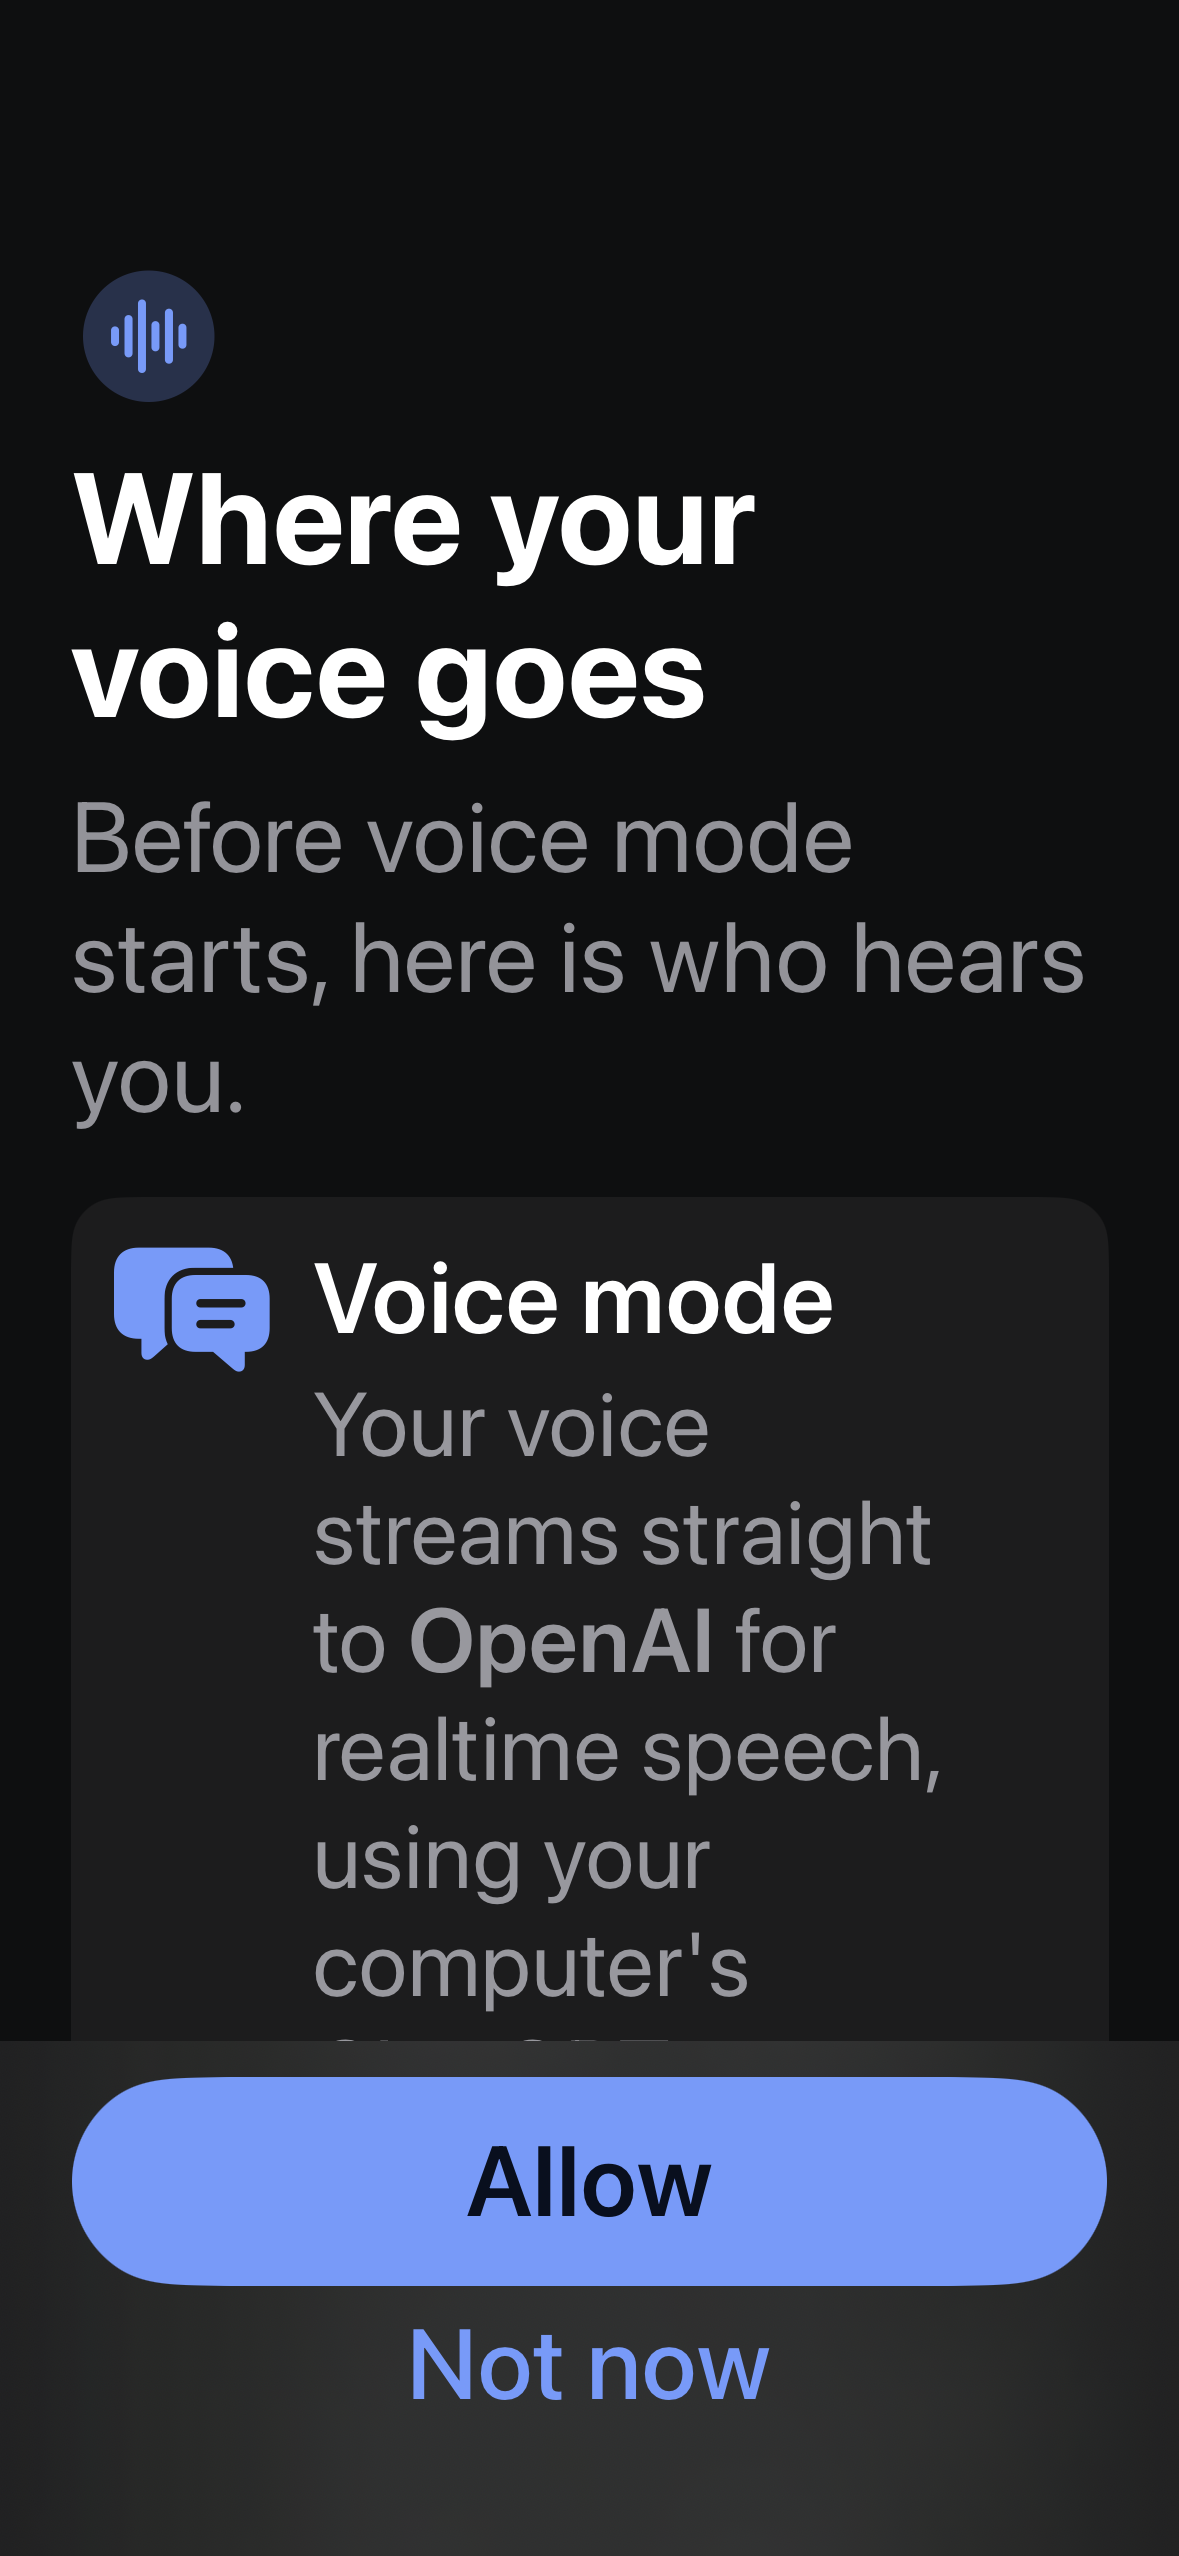
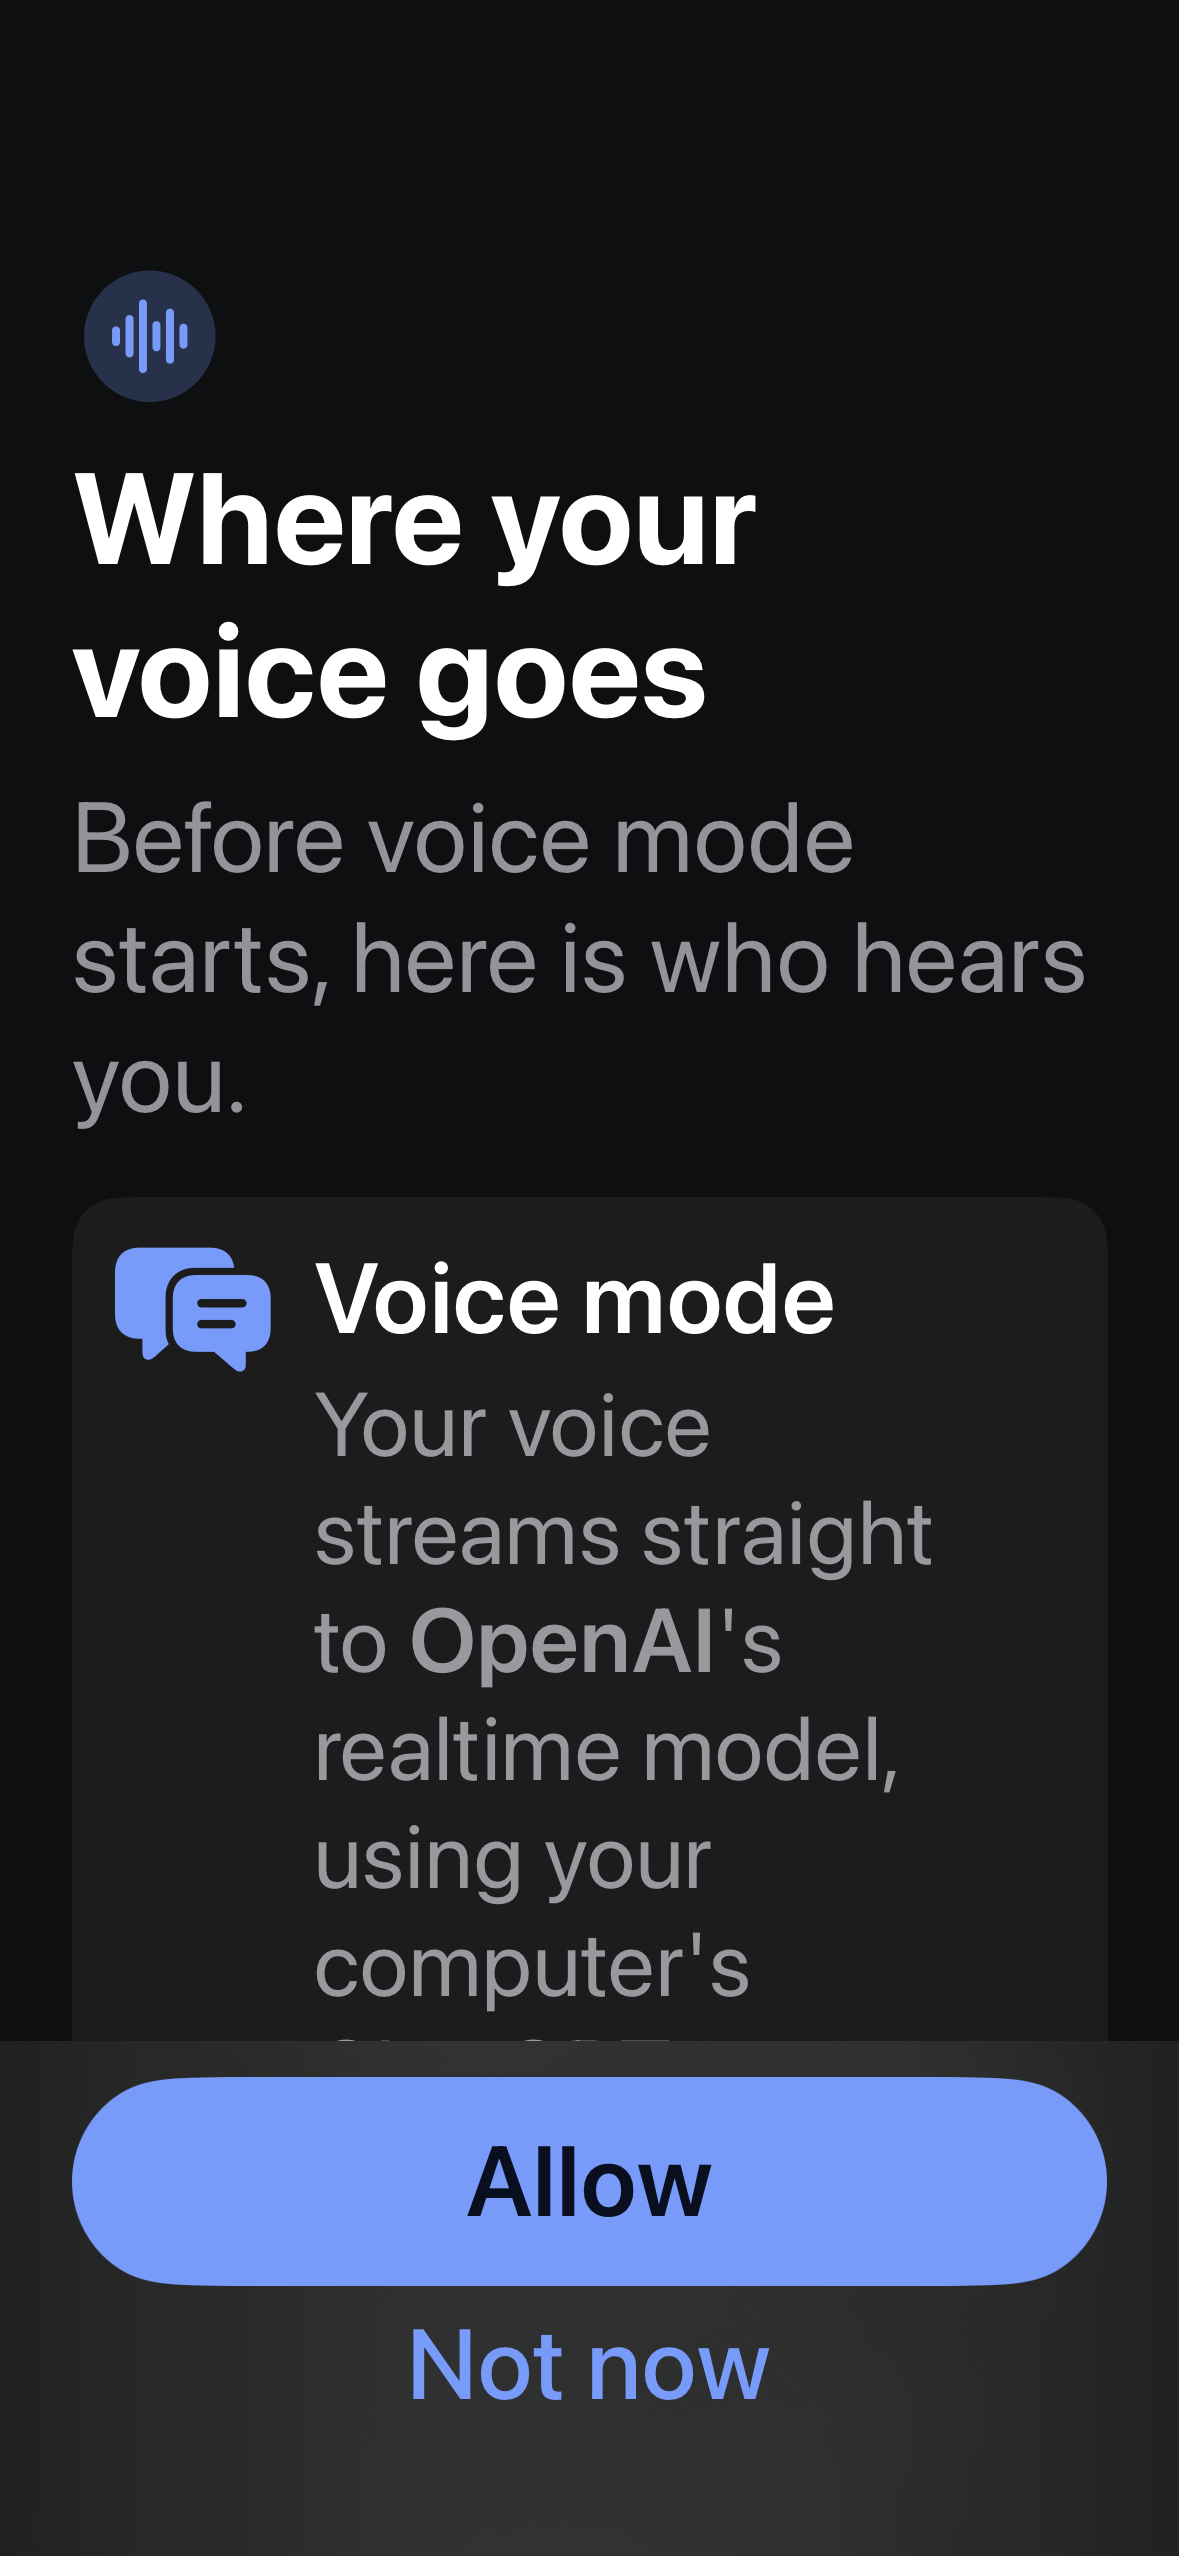
Consent: revoking stops audio, and the sheet names every flow
Review findings. Revoking consent now discards an active dictation take, so a pending stop can't deliver audio. It also drops the page's recorder UI (dictationEnded) and ends an open voice mode. VoiceHost asks for current consent before switching sessions in an open voice mode too, not only when it opens. A cancel while the consent sheet is up gives the take up. The sheet now lists every flow: session context sent to the realtime model, basic voice's speech services on the computer, and dictation's AI tidy-up. 'Nobody else' becomes 'Not the developer'. AIConsent.version 2 asks everyone again.

diff --git a/native/ios/PiTests/ConsentTests.swift b/native/ios/PiTests/ConsentTests.swift
@@ -68,6 +68,54 @@ final class ConsentTests: XCTestCase {
         XCTAssertEqual(d.state, .idle)
     }
 
+    func testCancelWhileTheSheetIsUpGivesTheTakeUp() async {
+        let f = FakeRecorder()
+        let d = Dictation(recorder: f)
+        d.haptic = {}
+        var release: CheckedContinuation<Void, Never>?
+        d.consent = { await withCheckedContinuation { release = $0 } }
+        let start = Task { try await d.start() }
+        for _ in 0..<1000 where release == nil { await Task.yield() }
+        XCTAssertNotNil(release, "the sheet was not shown")
+        d.cancel()
+        release?.resume()
+        do { try await start.value; XCTFail("started after cancel") } catch {}
+        XCTAssertEqual(d.state, .idle)
+    }
+
+    func testRevokingDiscardsTheTakeAndEndsVoice() async throws {
+        let f = FakeRecorder()
+        let d = Dictation(recorder: f)
+        d.haptic = {}
+        d.consent = {}
+        var calls: [String] = []
+        d.js = { calls.append($0) }
+        let c = consent(answer: true)
+        c.grant()
+        let model = AppModel(store: MachineStore(keychain: Keychain(service: "pi-consent-tests-3", accessGroup: nil)), prefs: VoicePrefs(defaults: defaults))
+        var b = NativeBridge(model: model, primaryOrigin: "http://127.0.0.1:9", dictation: d)
+        b.consent = c
+        try await d.start()
+        _ = await b.handle(["type": "consent.revoke"])
+        XCTAssertEqual(d.state, .idle)
+        XCTAssertEqual(f.cancels, 1)
+        XCTAssertTrue(calls.contains { $0.contains("dictationEnded") })
+        let stop = await b.handle(["type": "dictation.stop"])
+        guard case .error = stop else { return XCTFail("audio delivered after revocation") }
+    }
+
+    func testOpenVoiceStillNeedsCurrentConsent() async throws {
+        let store = MachineStore(keychain: Keychain(service: "pi-consent-tests-4", accessGroup: nil))
+        store.clear()
+        defer { store.clear() }
+        try store.save([Machine(id: "a", name: "Mac", origin: "http://127.0.0.1:9", d: "d", k: Base64URL.encode(Data(repeating: 3, count: 32)), primary: true)])
+        let model = AppModel(store: store, prefs: VoicePrefs(defaults: defaults))
+        do {
+            try await VoiceHost.start(model: model, agent: "ag", machine: "a", dictation: FakeDrain(), consent: consent(answer: false))
+            XCTFail()
+        } catch { XCTAssertTrue(error is AIConsent.Declined, "consent is checked before the mic or the engine") }
+    }
+
     func testBridgeReportsAndRevokesConsent() async {
         let c = consent(answer: true)
         c.grant()

diff --git a/native/ios/Pi/Consent/ConsentSheet.swift b/native/ios/Pi/Consent/ConsentSheet.swift
@@ -27,20 +27,25 @@ struct ConsentSheet: View {
                     Recipient(
                         symbol: "bubble.left.and.text.bubble.right.fill",
                         title: "Voice mode",
-                        text: "Your voice streams straight to **OpenAI** for realtime speech, using your computer's ChatGPT sign-in or API key. Your computer also gets what you say and pi's replies."
+                        text: "Your voice streams straight to **OpenAI**'s realtime model, using your computer's ChatGPT sign-in or API key. OpenAI also gets the session's recent messages and tool results as context. Your computer gets what you say and pi's replies."
+                    )
+                    Recipient(
+                        symbol: "waveform",
+                        title: "Basic voice",
+                        text: "When realtime voice isn't available, **your computer** turns your speech into text and may speak replies, using the speech services it is set up with (OpenAI or another provider)."
                     )
                     Recipient(
                         symbol: "mic.fill",
                         title: "Dictation",
-                        text: "The recording goes to **your computer**, which turns it into text with the speech provider it is set up with. That may be OpenAI."
+                        text: "The recording goes to **your computer**, which transcribes it with its speech service and tidies the text with its AI model. Either may be OpenAI or another provider."
                     )
                     Recipient(
                         symbol: "lock.fill",
-                        title: "Nobody else",
+                        title: "Not the developer",
                         text: "The developer of pi never receives your audio or text. Traffic between this iPhone and your computer is end-to-end encrypted."
                     )
                 }
-                Text("OpenAI handles audio under its own privacy policy. You can turn this off any time in voice settings or the menu.")
+                Text("Each provider handles what it gets under its own privacy policy. You can turn this off any time in voice settings or the menu.")
                     .font(.footnote)
                     .foregroundStyle(.secondary)
                 VStack(alignment: .leading, spacing: 4) {

diff --git a/native/ios/Pi/Voice/VoiceHost.swift b/native/ios/Pi/Voice/VoiceHost.swift
@@ -15,13 +15,16 @@ enum VoiceHost {
     static func start(model: AppModel, agent: String, machine: String, dictation: DictationControl? = nil, consent: AIConsent = .shared) async throws {
         await dictationToDrain(dictation).cancelIfActive()
         let e = model.voice
+        if !e.isOpen {
+            guard model.machines.contains(where: { $0.id == machine }) else { throw HubError.network("That computer isn't paired with this iPhone.") }
+        }
+        // Every entry point (bridge, Siri/Action button, Answer by voice) and every switch passes here:
+        // no audio leaves before the current OK.
+        try await consent.ensure(.voice)
         if e.isOpen {
             await e.start(agent: agent, machine: machine)
             return
         }
-        guard model.machines.contains(where: { $0.id == machine }) else { throw HubError.network("That computer isn't paired with this iPhone.") }
-        // Every entry point (bridge, Siri/Action button, Answer by voice) passes here: no audio leaves before the OK.
-        try await consent.ensure(.voice)
         guard await AVAudioApplication.requestRecordPermission() else {
             throw HubError.network("Microphone access is off. Turn it on in Settings.")
         }

diff --git a/native/ios/Pi/Dictation/Dictation.swift b/native/ios/Pi/Dictation/Dictation.swift
@@ -57,7 +57,10 @@ final class Dictation: DictationControl {
 
     func start() async throws {
         guard state == .idle else { throw DictationError(message: "already recording.") }
+        // A cancel (or revocation) while the consent sheet is up gives this take up.
+        let asked = take
         try await consent()
+        guard take == asked else { throw DictationError(message: "cancelled.") }
         guard state == .idle else { throw DictationError(message: "already recording.") }
         state = .starting
         let mine = take
@@ -111,6 +114,13 @@ final class Dictation: DictationControl {
         let pending = startTask
         if state != .idle { cancel() }
         _ = try? await pending?.value
+    }
+
+    /// Consent was taken back: discard any take (a pending stop then fails) and drop the page's recorder UI.
+    func consentRevoked() {
+        let active = state != .idle
+        cancel()
+        if active { js("window.PiNative.dictationEnded && window.PiNative.dictationEnded(\"Voice sharing is off.\")") }
     }
 
     private func systemEnded(_ message: String) {

diff --git a/native/ios/Pi/VoiceUI/VoiceSheets.swift b/native/ios/Pi/VoiceUI/VoiceSheets.swift
@@ -207,6 +207,7 @@ struct VoiceSettingsSheet: View {
                     .confirmationDialog("Stop sharing your voice?", isPresented: $confirmRevoke, titleVisibility: .visible) {
                         Button("Stop sharing and end voice mode", role: .destructive) {
                             AIConsent.shared.revoke()
+                            Dictation.shared.consentRevoked()
                             dismiss()
                             engine.stop()
                         }

diff --git a/native/ios/Pi/Consent/AIConsent.swift b/native/ios/Pi/Consent/AIConsent.swift
@@ -15,7 +15,8 @@ enum PiLinks {
 final class AIConsent {
     static let shared = AIConsent()
     /// 1: voice → OpenAI (realtime) + your computer; dictation → your computer → its transcription provider.
-    static let version = 1
+    /// 2: also session context to the realtime model, basic voice's speech services, dictation's AI tidy-up.
+    static let version = 2
     static let key = "pi-ai-consent"
 
     enum Purpose: Sendable { case voice, dictation }

diff --git a/native/ios/Pi/Shell/NativeBridge.swift b/native/ios/Pi/Shell/NativeBridge.swift
@@ -65,6 +65,8 @@ struct NativeBridge {
             return .value(["granted": .bool(consent.granted)])
         case "consent.revoke":
             consent.revoke()
+            dictation.consentRevoked()
+            if model.voice.isOpen { model.voice.stop() }
             return .value(["granted": false])
         case "dictation.cancel":
             dictation.cancel()
